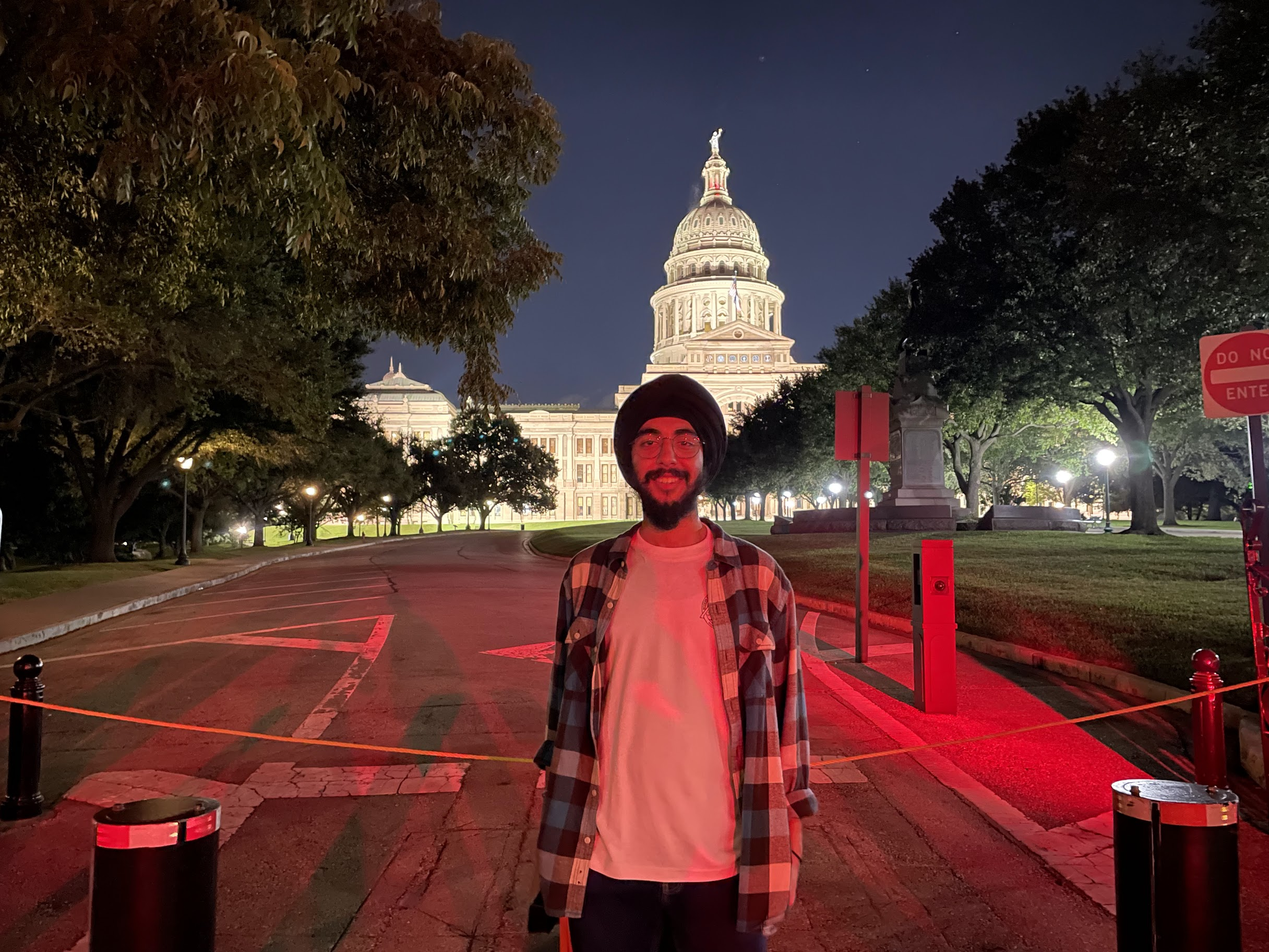
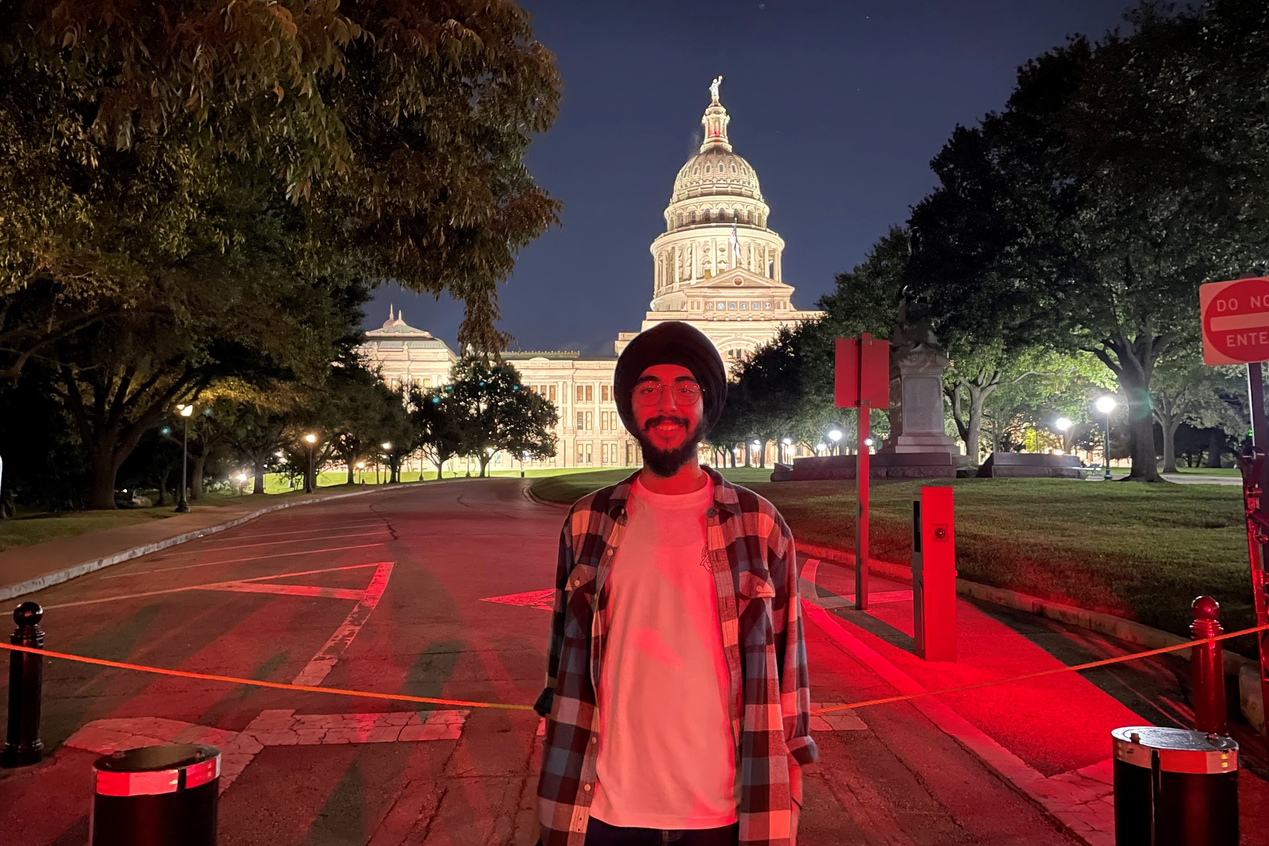
Fixed images | Removed autoplay on carousels

diff --git a/index.html b/index.html
@@ -55,7 +55,7 @@
             <li><a href="#home" class="smoothScroll">Home</a></li>
             <li><a href="#about" class="smoothScroll">About Me</a></li>
             <li><a href="#graphs" class="smoothScroll">Graphs</a></li>
-            <li><a href="#projects" class="smoothScroll">Projects</a></li>
+            <li><a href="#experience" class="smoothScroll">Experience</a></li>
             <li><a href="#education" class="smoothScroll">Education</a></li>
           </ul>
         </div>
@@ -317,7 +317,7 @@
     </section>
 
     <!-- PROJECTS -->
-    <section id="projects" class="parallax-section">
+    <section id="experience" class="parallax-section">
       <div class="container">
         <div class="row">
           <div class="col-md-offset-2 col-md-8 col-sm-12">
@@ -329,7 +329,7 @@
 
           <div class="clearfix"></div>
 
-          <div id="owl-projects" class="owl-carousel">
+          <div id="owl-experience" class="owl-carousel">
             <div class="col-md-4 col-sm-4 item">
               <div class="projects-item">
                 <img src="images/ncr-logo.png" class="img-responsive" alt="" />

diff --git a/js/custom.js b/js/custom.js
@@ -26,17 +26,17 @@
         function initParallax() {
           $('#home').parallax("60%", 100);
           $('#about').parallax("100%", 80);
-          $('#project').parallax("80%", 60);
-          $('#projects').parallax("40%", 40);
+          $('#education').parallax("80%", 60);
+          $('#experience').parallax("40%", 40);
           $('#contact').parallax("20%", 20);
           }
         initParallax();
 
 
         // Owl Carousel
-        var owl = $("#owl-projects");
+        var owl = $("#owl-experience");
           owl.owlCarousel({
-            autoPlay: 6000,
+            // autoPlay: 6000,
             items : 4,
             itemsDesktop : [1199,3],
             itemsDesktopSmall : [979,3],
@@ -48,7 +48,7 @@
 
         var owl2 = $("#owl-education");
           owl2.owlCarousel({
-            autoPlay: 6000,
+            // autoPlay: 6000,
             items : 4,
             itemsDesktop : [1199,3],
             itemsDesktopSmall : [979,3],

diff --git a/css/tooplate-style.css b/css/tooplate-style.css
@@ -220,7 +220,7 @@ a:focus {
 }
 
 #about,
-#projects,
+#experience,
 #education,
 #graphs,
 footer {
@@ -228,7 +228,7 @@ footer {
 }
 
 #about,
-#projects,
+#experience,
 #education,
 #graphs {
   padding-top: 100px;
@@ -496,15 +496,15 @@ footer {
    PROJECTS             
 -----------------------------------------*/
 
-#projects .item {
+#experience .item {
   display: block;
   width: 100%;
   margin-bottom: 22px;
 }
 
-#projects h3,
-#projects h2,
-#projects p {
+#experience h3,
+#experience h2,
+#experience p {
   margin: 0;
 }
 
